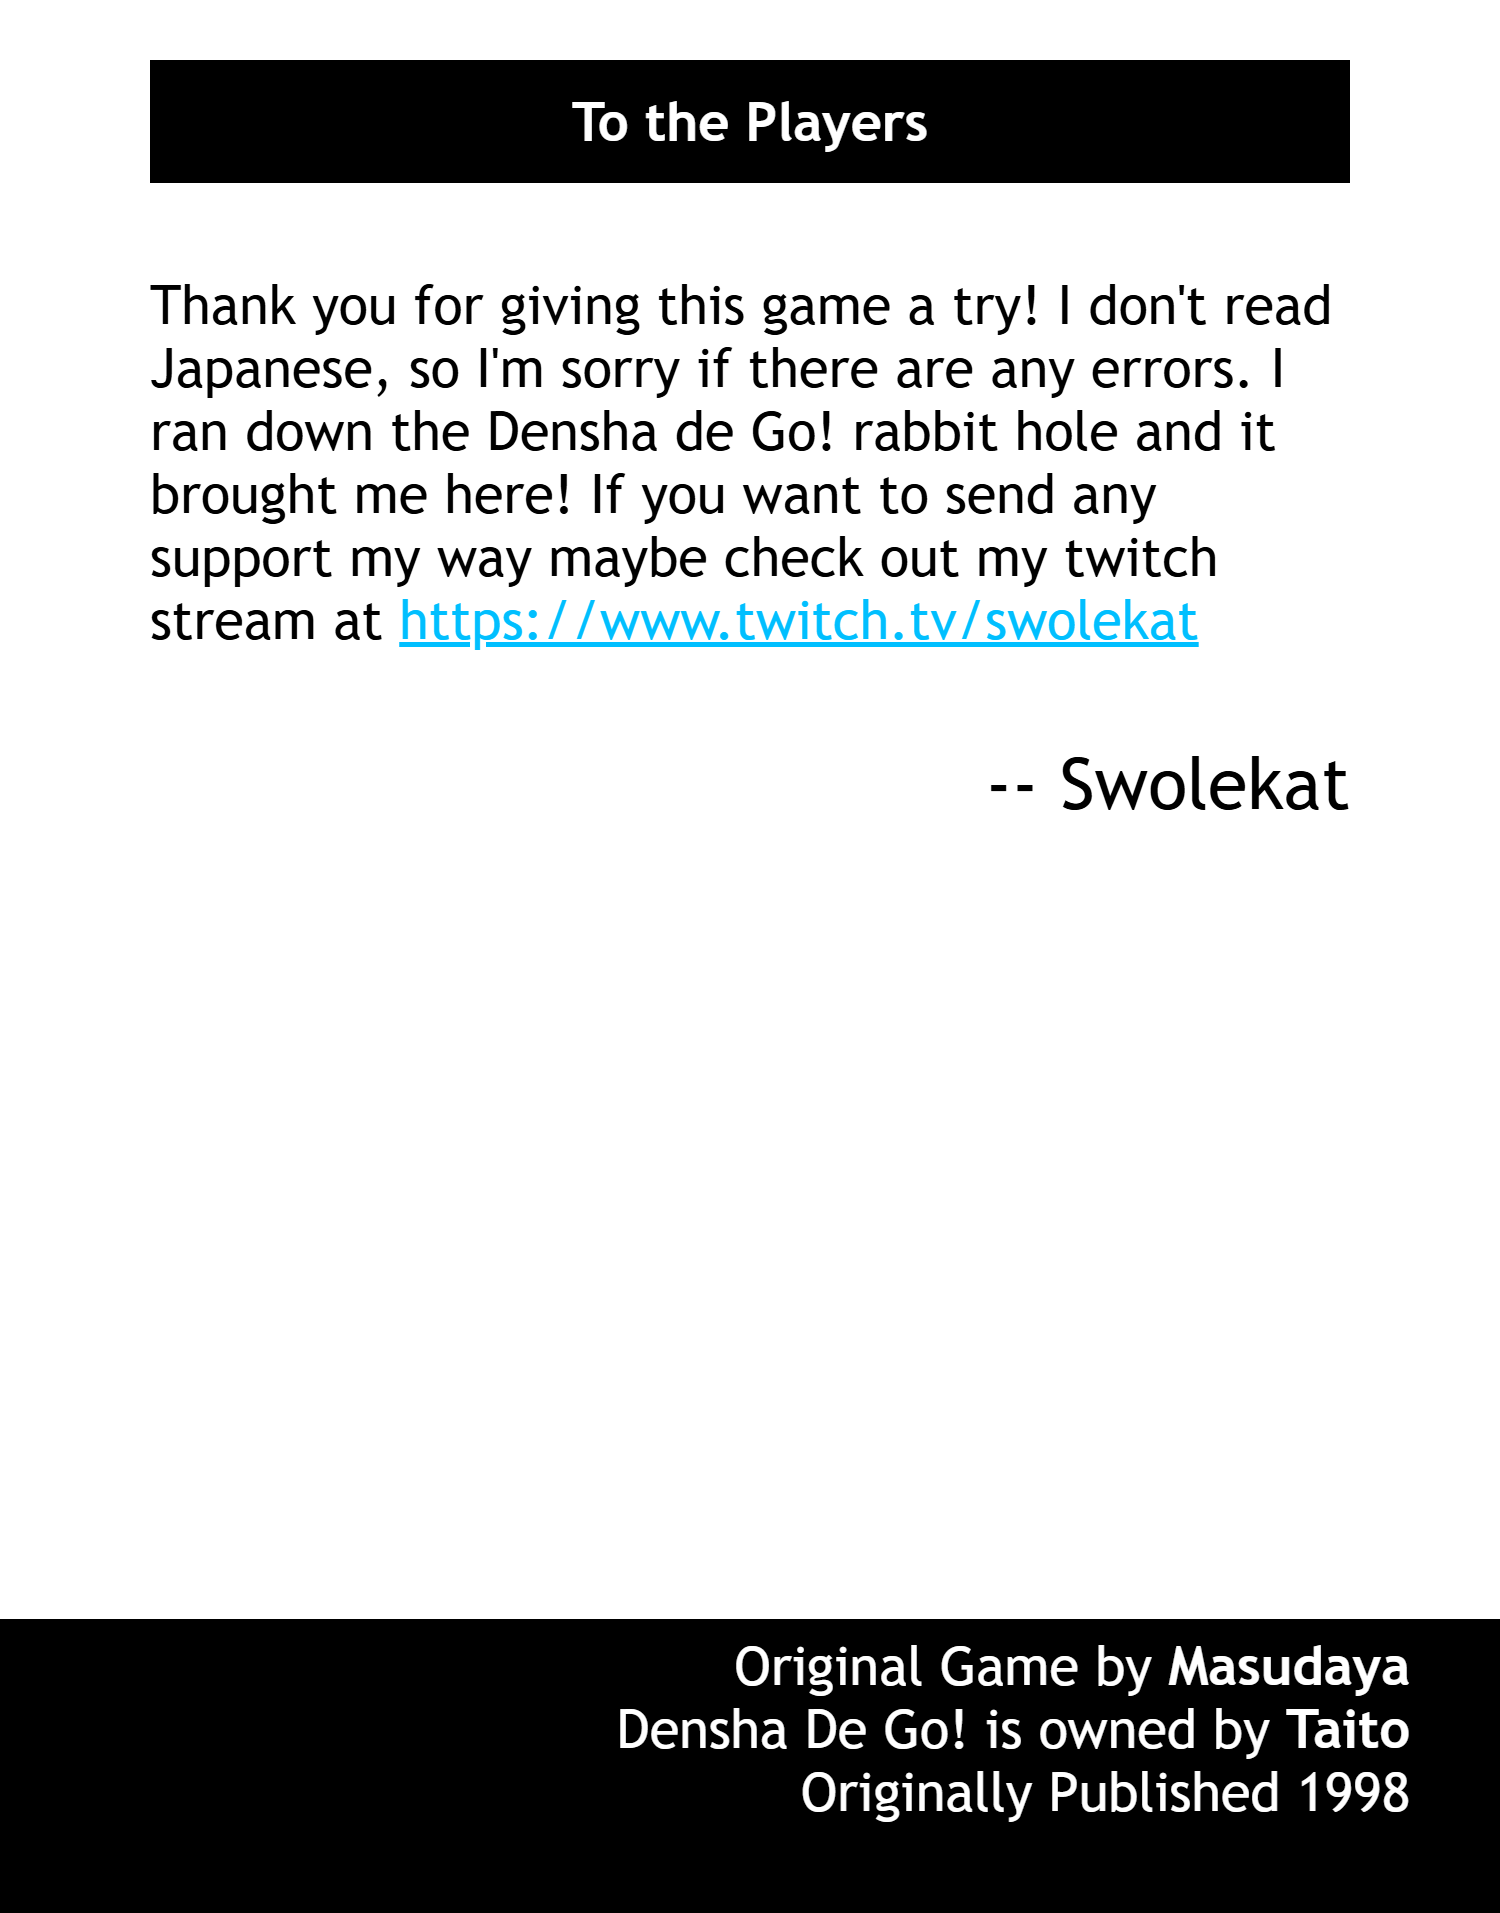
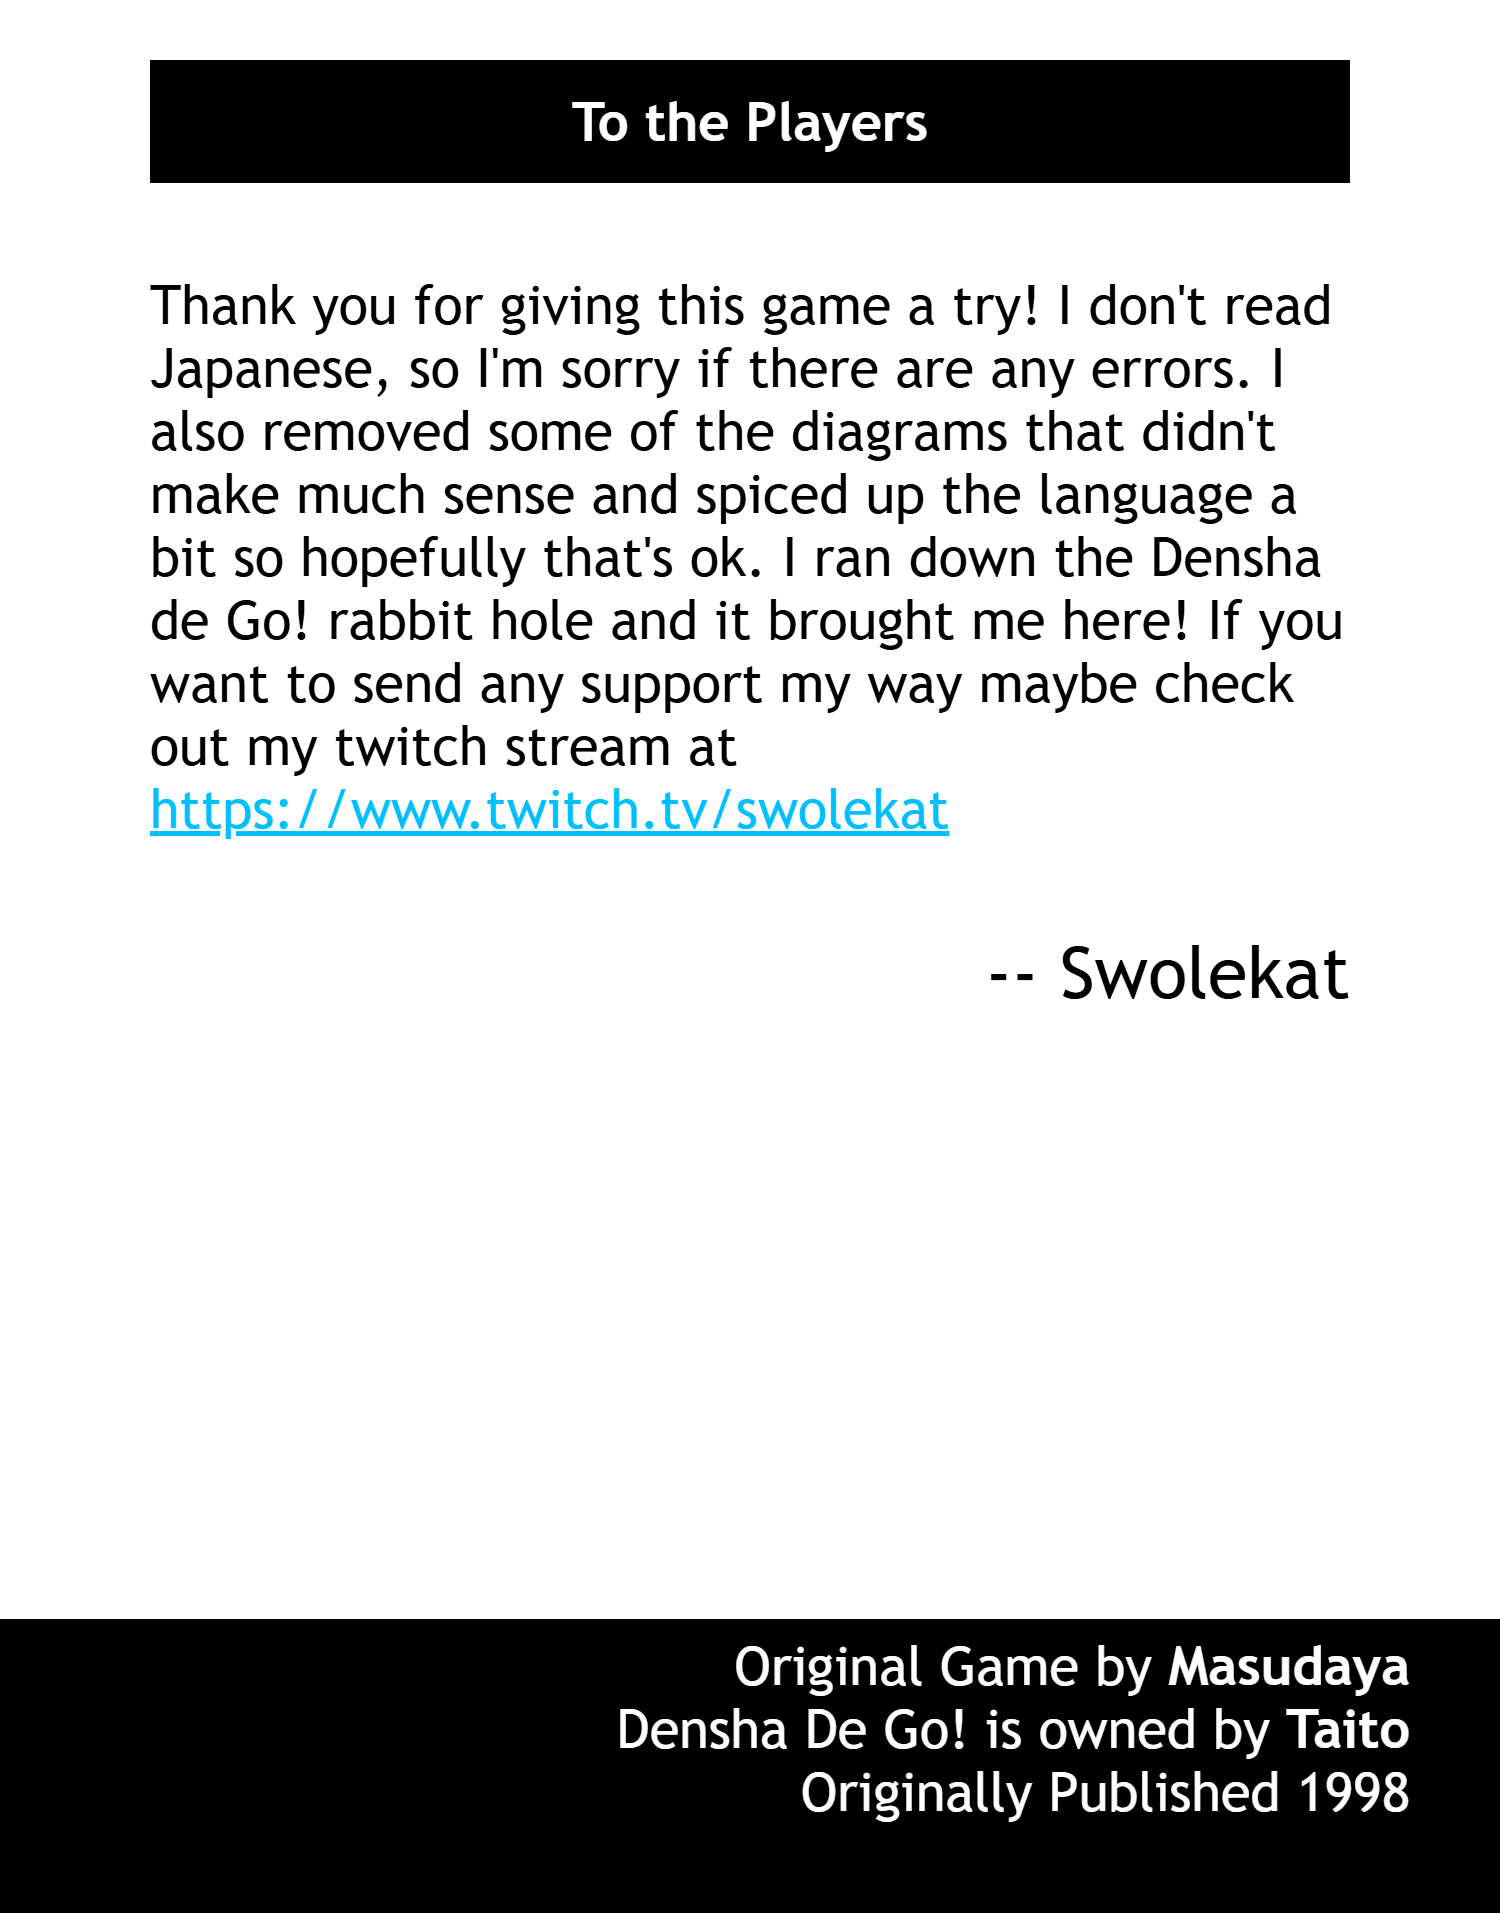
page 9

Changed region(s): [[0.092, 0.2159, 0.8893, 0.4626], [0.7053, 0.4935, 0.8893, 0.5243], [0.7053, 0.4009, 0.8893, 0.4318]]

diff --git a/manual/en-html/page09.html b/manual/en-html/page09.html
@@ -4,60 +4,201 @@
     <meta charset="UTF-8">
     <title>Title</title>
     <link rel="stylesheet" href="./assets/common.css">
-  <style>
-    .top-section{
-        background: var(--yamanote-green);
-        padding: 20px 150px;
-        height: 40%;
-        display: flex;
-        flex-direction: column;
-        align-items: center;
-    }
-    .ddg-logo {
-        width: 100%;
-    }
+    <style>
+        .main-content {
+            padding: 40px 30px;
+            display: flex;
+            flex-direction: column;
+            gap: 30px;
+        }
 
-    .card-game {
-        width: 300px;
-    }
+        .step {
+            font-size: 36px;
+        }
 
-    .game-instructions {
-        font-size: 48px;
-        font-weight: bold;
-        margin-top: 20px;
-    }
+        .disclaimer {
+            font-size: 28px;
+            color: #666;
+        }
 
-    .bottom-section {
-        padding: 60px 100px;
-        height: 60%;
-        display: flex;
-        flex-direction: column;
-        align-items: center;
-        font-size: 48px;
-        justify-content: space-between;
-    }
+        .diagram-plus-tetsu-chan {
+            flex-grow: 1;
+            position: relative;
+        }
 
-  </style>
+        .area-diagram {
+            position: absolute;
+            width: 500px;
+            height: 350px;
+            background: #ccc;
+            border: 2px dashed black;
+            padding: 10px;
+            top: 40px;
+            left: 30px;
+            z-index: 1;
+            transform: rotate(180deg);
+        }
+
+        .area-grid {
+            display: grid;
+            grid-template-columns: 1fr 1fr 1fr;
+            font-size: 24px;
+            gap: 20px;
+        }
+
+        .area-column {
+            display: flex;
+            flex-direction: column;
+
+        }
+
+        .card {
+            border: 2px solid black;
+            padding: 5px;
+            border-radius: 5px;
+            height: 200px;
+            text-align: center;
+            margin-bottom: -160px;
+            background: #ccc;
+        }
+
+        .right-side-up-diagram {
+            position: absolute;
+            width: 500px;
+            height: 350px;
+            top: 40px;
+            left: 30px;
+            z-index: 2;
+        }
+
+        .right-side-up-diagram .card {
+            background: white;
+            display: flex;
+            flex-direction: column;
+            justify-content: center;
+            margin-bottom: 0;
+            width: 150px;
+            position: absolute;
+            font-size: 24px;
+        }
+
+        #emergency-card {
+            right: 170px;
+            top: 0px;
+            transform: rotate(20deg);
+        }
+
+        #signal-card {
+            right: 10px;
+            top: 90px;
+        }
+
+        .area-name {
+            font-size: 24px;
+            position: absolute;
+            top: 10px;
+            left: 10px;
+        }
+
+        .tetsu-chan {
+            position: absolute;
+            width: 500px;
+            top: 0;
+            right: 0;
+            z-index: 3;
+        }
+
+        .tetsu-chan-wrapper {
+            width: 100%;
+            position: relative;
+        }
+
+        .tetsu-chan-wrapper img {
+            width: 100%;
+        }
+
+        .tetsu-chan-text {
+            position: absolute;
+            bottom: 80px;
+            left: 30px;
+            font-size: 48px;
+            width: 410px;
+        }
+    </style>
 </head>
 <body>
-  <div class="page-content">
-    <div class="top-section">
-        <img src="assets/ddgLogo.webp" class="ddg-logo" />
-        <img src="assets/card-game.png" class="card-game" />
-        <div class="game-instructions">
-            Game Instructions
+<div class="page-content">
+    <div class="arrow-header">
+        <div class="arrow-header-text">
+            How to use Interference Cards
         </div>
     </div>
-      <div class="bottom-section">
-          <div class="paragraph">
-            Drive the train from station to station and stop it exactly! Watch out for accidents and make sure to obey the signals. Use all sorts of tricks to slow down your opponents and reach the station before anyone else!
-          </div>
-          <div>
-              Become a train god! 「DENSHA DE GO!」
-          </div>
-          <img src="assets/matsudaya%20logo.png" class="matsudaya-logo" />
-      </div>
-  </div>
+    <div class="main-content">
+        <div class="step">
+            There are two types of interference cards: Signal cards and Emergency Cards. In order to make Tetsu-chan proud, you must disrupt your opponent. Place these types of cards on an opponent's Station or Distance cards.
+        </div>
+        <div class="disclaimer">
+            ※ You can play these cards on ANY opponent no matter the order!
+        </div>
+        <div class="disclaimer">
+            ※ It's possible to disrupt others, even if you have no lines.
+        </div>
+        <div class="disclaimer">
+            ※ You can NOT play these on an already blocked line.
+        </div>
+        <div class="diagram-plus-tetsu-chan">
+            <div class="area-diagram">
+                <div class="area-grid">
+                    <div class="area-column">
+                        <div class="card">
+                            Station 450
+                        </div>
+                        <div class="card">
+                            100
+                        </div>
+                    </div>
+                    <div class="area-column">
+                        <div class="card">
+                            Station 800
+                        </div>
+                        <div class="card">
+                            500
+                        </div>
+                        <div class="card">
+                            200
+                        </div>
+                    </div>
+                    <div class="area-column">
+                        <div class="card">
+                            Station 500
+                        </div>
+                    </div>
+                </div>
+            </div>
+            <div class="right-side-up-diagram">
+                <div class="right-side-up-diagram-content">
+                    <div class="card" id="emergency-card">
+                        Emergency Card
+                    </div>
+                    <div class="card" id="signal-card">
+                        Signal Card
+                    </div>
+                    <div class="area-name">
+                        Opponent's Area
+                    </div>
+                </div>
+            </div>
+            <div class="tetsu-chan">
+                <div class="tetsu-chan-wrapper">
+                    <img src="assets/page9.png"/>
+                    <div class="tetsu-chan-text">
+                        Chaos is always the <b>BEST</b> policy <3
+                    </div>
+                </div>
+            </div>
+        </div>
+    </div>
+
 
 </body>
 </html>

diff --git a/manual/en-html/page16.html b/manual/en-html/page16.html
@@ -56,7 +56,7 @@
             To the Players
         </div>
         <div class="top-text">
-            Thank you for giving this game a try! I don't read Japanese, so I'm sorry if there are any errors. I ran down the Densha de Go! rabbit hole and it brought me here! If you want to send any support my way maybe check out my twitch stream at <span class="link">https://www.twitch.tv/swolekat</span>
+            Thank you for giving this game a try! I don't read Japanese, so I'm sorry if there are any errors. I also removed some of the diagrams that didn't make much sense and spiced up the language a bit so hopefully that's ok. I ran down the Densha de Go! rabbit hole and it brought me here! If you want to send any support my way maybe check out my twitch stream at <span class="link">https://www.twitch.tv/swolekat</span>
         </div>
         <div class="signature">
             -- Swolekat

diff --git a/todo.md b/todo.md
@@ -1,5 +1,4 @@
 Manual:
-* page 9 - hard
 * page 12 - hard
 * page 13 - hard
 
